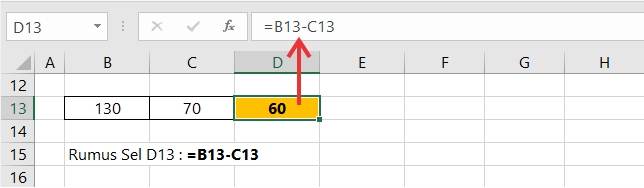
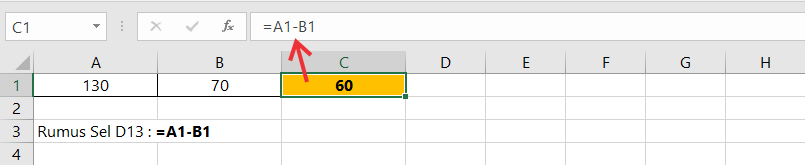
M

diff --git a/excel.html b/excel.html
@@ -1226,14 +1226,14 @@
                                                                 <div class="warning">
                                                                     <p><strong>=130-70</strong></p>
                                                                 </div>
-                                                                <p>Untuk mengurangi angka di dalam <strong>Cell</strong> tertentu misalnya <strong>Cell B13</strong> dikurangi dengan nilai angka <strong>Cell C13</strong> maka rumus excel pengurangannya adalah
+                                                                <p>Untuk mengurangi angka di dalam <strong>Cell</strong> tertentu misalnya <strong>Cell A1</strong> dikurangi dengan nilai angka <strong>Cell B1</strong> maka rumus excel pengurangannya adalah
                                                                     sebagai berikut:</p>
                                                                 <div class="warning">
-                                                                    <p><strong>=B13-C13</strong></p>
+                                                                    <p><strong>=A1-B1</strong></p>
                                                                 </div>
                                                             </div>
                                                             <div class="col-md-6">
-                                                                <p>Perhatikan contoh rumus excel pengurangan pada Cell D13 berikut:</p>
+                                                                <p>Perhatikan contoh rumus excel pengurangan pada Cell C1 berikut:</p>
                                                                 <img src="img/img-excel/pengurangan1.png" class="w-100" alt="">
                                                             </div>
                                                         </div>
